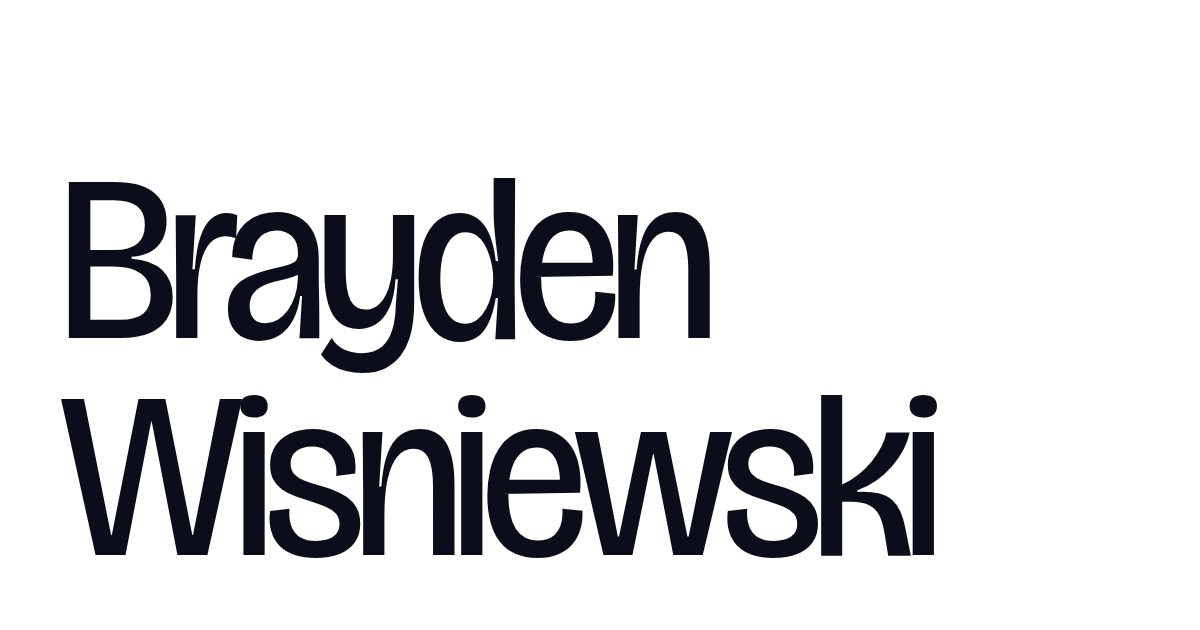
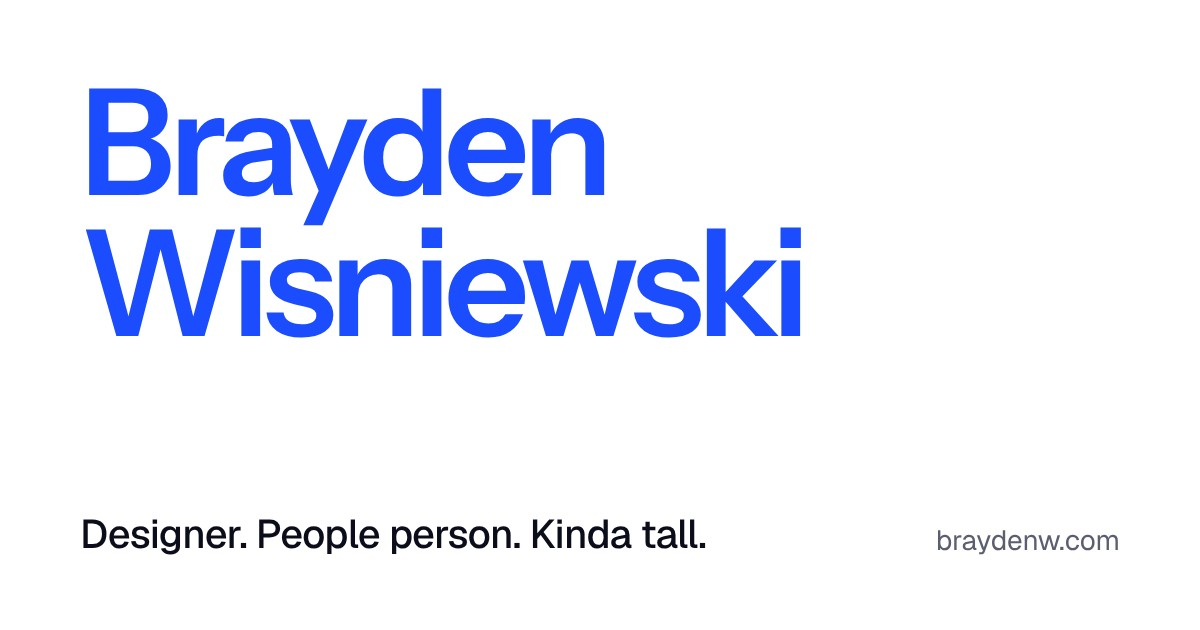
Fix share previews on every page
- New name card (Instrument Sans, Brayden Blue) for the homepage, About,
  design system, privacy and 404
- "Making a case study" gets its own card instead of the Presents image
- IBM, Opal, Slack and Presents share their current hero, fitted to 1200x630
- 404 no longer shares as "Privacy"; every page uses the large preview

Claude-Session: https://claude.ai/code/session_01AXMH3YZ9upJSGdanuaRPc5

Changed region(s): [[0.0308, 0.1206, 0.6783, 0.6032], [0.0308, 0.6032, 0.925, 0.9048]]

diff --git a/404.html b/404.html
@@ -26,10 +26,13 @@
 <meta name="viewport" content="width=device-width, initial-scale=1">
 <title>Page not found — Brayden Wisniewski</title>
 <meta name="description" content="This page wandered off.">
-<meta property="og:url" content="https://www.braydenw.com/privacy">
-<meta property="og:title" content="Privacy — Brayden Wisniewski">
-<meta property="og:description" content="This page wandered off.">
-<meta property="og:image" content="https://www.braydenw.com/images/presents-reveal.jpg">
+<meta property="og:url" content="https://www.braydenw.com/">
+<meta property="og:title" content="Brayden Wisniewski">
+<meta property="og:description" content="Designer. People person. Kinda tall.">
+<meta property="og:image" content="https://www.braydenw.com/images/og-card.jpg">
+<meta property="og:image:width" content="1200">
+<meta property="og:image:height" content="630">
+<meta property="og:image:alt" content="Brayden Wisniewski">
 <meta property="og:type" content="article">
 <meta name="twitter:card" content="summary_large_image">
 

diff --git a/src/404.html b/src/404.html
@@ -26,10 +26,13 @@
 <meta name="viewport" content="width=device-width, initial-scale=1">
 <title>Page not found — Brayden Wisniewski</title>
 <meta name="description" content="This page wandered off.">
-<meta property="og:url" content="https://www.braydenw.com/privacy">
-<meta property="og:title" content="Privacy — Brayden Wisniewski">
-<meta property="og:description" content="This page wandered off.">
-<meta property="og:image" content="https://www.braydenw.com/images/presents-reveal.jpg">
+<meta property="og:url" content="https://www.braydenw.com/">
+<meta property="og:title" content="Brayden Wisniewski">
+<meta property="og:description" content="Designer. People person. Kinda tall.">
+<meta property="og:image" content="https://www.braydenw.com/images/og-card.jpg">
+<meta property="og:image:width" content="1200">
+<meta property="og:image:height" content="630">
+<meta property="og:image:alt" content="Brayden Wisniewski">
 <meta property="og:type" content="article">
 <meta name="twitter:card" content="summary_large_image">
 

diff --git a/case-studies/index.html b/case-studies/index.html
@@ -30,7 +30,10 @@
 <meta property="og:url" content="https://www.braydenw.com/case-studies">
 <meta property="og:title" content="Making a case study — Brayden Wisniewski">
 <meta property="og:description" content="How to make a case study people actually read: overview, problem, decisions, results.">
-<meta property="og:image" content="https://www.braydenw.com/images/presents-reveal.jpg">
+<meta property="og:image" content="https://www.braydenw.com/images/og-case-studies.jpg">
+<meta property="og:image:width" content="1200">
+<meta property="og:image:height" content="630">
+<meta property="og:image:alt" content="Making a case study">
 <meta property="og:type" content="article">
 <meta name="twitter:card" content="summary_large_image">
 

diff --git a/src/guide.html b/src/guide.html
@@ -30,7 +30,10 @@
 <meta property="og:url" content="https://www.braydenw.com/case-studies">
 <meta property="og:title" content="Making a case study — Brayden Wisniewski">
 <meta property="og:description" content="How to make a case study people actually read: overview, problem, decisions, results.">
-<meta property="og:image" content="https://www.braydenw.com/images/presents-reveal.jpg">
+<meta property="og:image" content="https://www.braydenw.com/images/og-case-studies.jpg">
+<meta property="og:image:width" content="1200">
+<meta property="og:image:height" content="630">
+<meta property="og:image:alt" content="Making a case study">
 <meta property="og:type" content="article">
 <meta name="twitter:card" content="summary_large_image">
 

diff --git a/design-system/index.html b/design-system/index.html
@@ -30,7 +30,10 @@
 <meta property="og:url" content="https://www.braydenw.com/design-system">
 <meta property="og:title" content="Design system — Brayden Wisniewski">
 <meta property="og:description" content="The colors, type, and components behind braydenw.com.">
-<meta property="og:image" content="https://www.braydenw.com/images/presents-reveal.jpg">
+<meta property="og:image" content="https://www.braydenw.com/images/og-card.jpg">
+<meta property="og:image:width" content="1200">
+<meta property="og:image:height" content="630">
+<meta property="og:image:alt" content="Brayden Wisniewski">
 <meta property="og:type" content="article">
 <meta name="twitter:card" content="summary_large_image">
 

diff --git a/src/design.html b/src/design.html
@@ -30,7 +30,10 @@
 <meta property="og:url" content="https://www.braydenw.com/design-system">
 <meta property="og:title" content="Design system — Brayden Wisniewski">
 <meta property="og:description" content="The colors, type, and components behind braydenw.com.">
-<meta property="og:image" content="https://www.braydenw.com/images/presents-reveal.jpg">
+<meta property="og:image" content="https://www.braydenw.com/images/og-card.jpg">
+<meta property="og:image:width" content="1200">
+<meta property="og:image:height" content="630">
+<meta property="og:image:alt" content="Brayden Wisniewski">
 <meta property="og:type" content="article">
 <meta name="twitter:card" content="summary_large_image">
 

diff --git a/ibm/index.html b/ibm/index.html
@@ -30,7 +30,10 @@
 <meta property="og:url" content="https://www.braydenw.com/ibm">
 <meta property="og:title" content="Design at enterprise speed — IBM">
 <meta property="og:description" content="A summer designing at enterprise scale.">
-<meta property="og:image" content="https://www.braydenw.com/images/ibm-cover.jpg">
+<meta property="og:image" content="https://www.braydenw.com/images/og-ibm.jpg">
+<meta property="og:image:width" content="1200">
+<meta property="og:image:height" content="630">
+<meta property="og:image:alt" content="IBM Platinum and Sovereign Support pages">
 <meta property="og:type" content="article">
 <meta name="twitter:card" content="summary_large_image">
 

diff --git a/src/ibm.html b/src/ibm.html
@@ -30,7 +30,10 @@
 <meta property="og:url" content="https://www.braydenw.com/ibm">
 <meta property="og:title" content="Design at enterprise speed — IBM">
 <meta property="og:description" content="A summer designing at enterprise scale.">
-<meta property="og:image" content="https://www.braydenw.com/images/ibm-cover.jpg">
+<meta property="og:image" content="https://www.braydenw.com/images/og-ibm.jpg">
+<meta property="og:image:width" content="1200">
+<meta property="og:image:height" content="630">
+<meta property="og:image:alt" content="IBM Platinum and Sovereign Support pages">
 <meta property="og:type" content="article">
 <meta name="twitter:card" content="summary_large_image">
 

diff --git a/privacy/index.html b/privacy/index.html
@@ -30,7 +30,10 @@
 <meta property="og:url" content="https://www.braydenw.com/privacy">
 <meta property="og:title" content="Privacy — Brayden Wisniewski">
 <meta property="og:description" content="How braydenw.com uses Google Analytics and cookies.">
-<meta property="og:image" content="https://www.braydenw.com/images/presents-reveal.jpg">
+<meta property="og:image" content="https://www.braydenw.com/images/og-card.jpg">
+<meta property="og:image:width" content="1200">
+<meta property="og:image:height" content="630">
+<meta property="og:image:alt" content="Brayden Wisniewski">
 <meta property="og:type" content="article">
 <meta name="twitter:card" content="summary_large_image">
 

diff --git a/src/privacy.html b/src/privacy.html
@@ -30,7 +30,10 @@
 <meta property="og:url" content="https://www.braydenw.com/privacy">
 <meta property="og:title" content="Privacy — Brayden Wisniewski">
 <meta property="og:description" content="How braydenw.com uses Google Analytics and cookies.">
-<meta property="og:image" content="https://www.braydenw.com/images/presents-reveal.jpg">
+<meta property="og:image" content="https://www.braydenw.com/images/og-card.jpg">
+<meta property="og:image:width" content="1200">
+<meta property="og:image:height" content="630">
+<meta property="og:image:alt" content="Brayden Wisniewski">
 <meta property="og:type" content="article">
 <meta name="twitter:card" content="summary_large_image">
 

diff --git a/presents/index.html b/presents/index.html
@@ -30,7 +30,10 @@
 <meta property="og:url" content="https://www.braydenw.com/presents">
 <meta property="og:title" content="Presents — Brayden Wisniewski">
 <meta property="og:description" content="Capture a moment, together.">
-<meta property="og:image" content="https://www.braydenw.com/images/presents-reveal.jpg">
+<meta property="og:image" content="https://www.braydenw.com/images/og-presents.jpg">
+<meta property="og:image:width" content="1200">
+<meta property="og:image:height" content="630">
+<meta property="og:image:alt" content="The Presents shuffle screen">
 <meta property="og:type" content="article">
 <meta name="twitter:card" content="summary_large_image">
 

diff --git a/src/presents.html b/src/presents.html
@@ -30,7 +30,10 @@
 <meta property="og:url" content="https://www.braydenw.com/presents">
 <meta property="og:title" content="Presents — Brayden Wisniewski">
 <meta property="og:description" content="Capture a moment, together.">
-<meta property="og:image" content="https://www.braydenw.com/images/presents-reveal.jpg">
+<meta property="og:image" content="https://www.braydenw.com/images/og-presents.jpg">
+<meta property="og:image:width" content="1200">
+<meta property="og:image:height" content="630">
+<meta property="og:image:alt" content="The Presents shuffle screen">
 <meta property="og:type" content="article">
 <meta name="twitter:card" content="summary_large_image">
 
